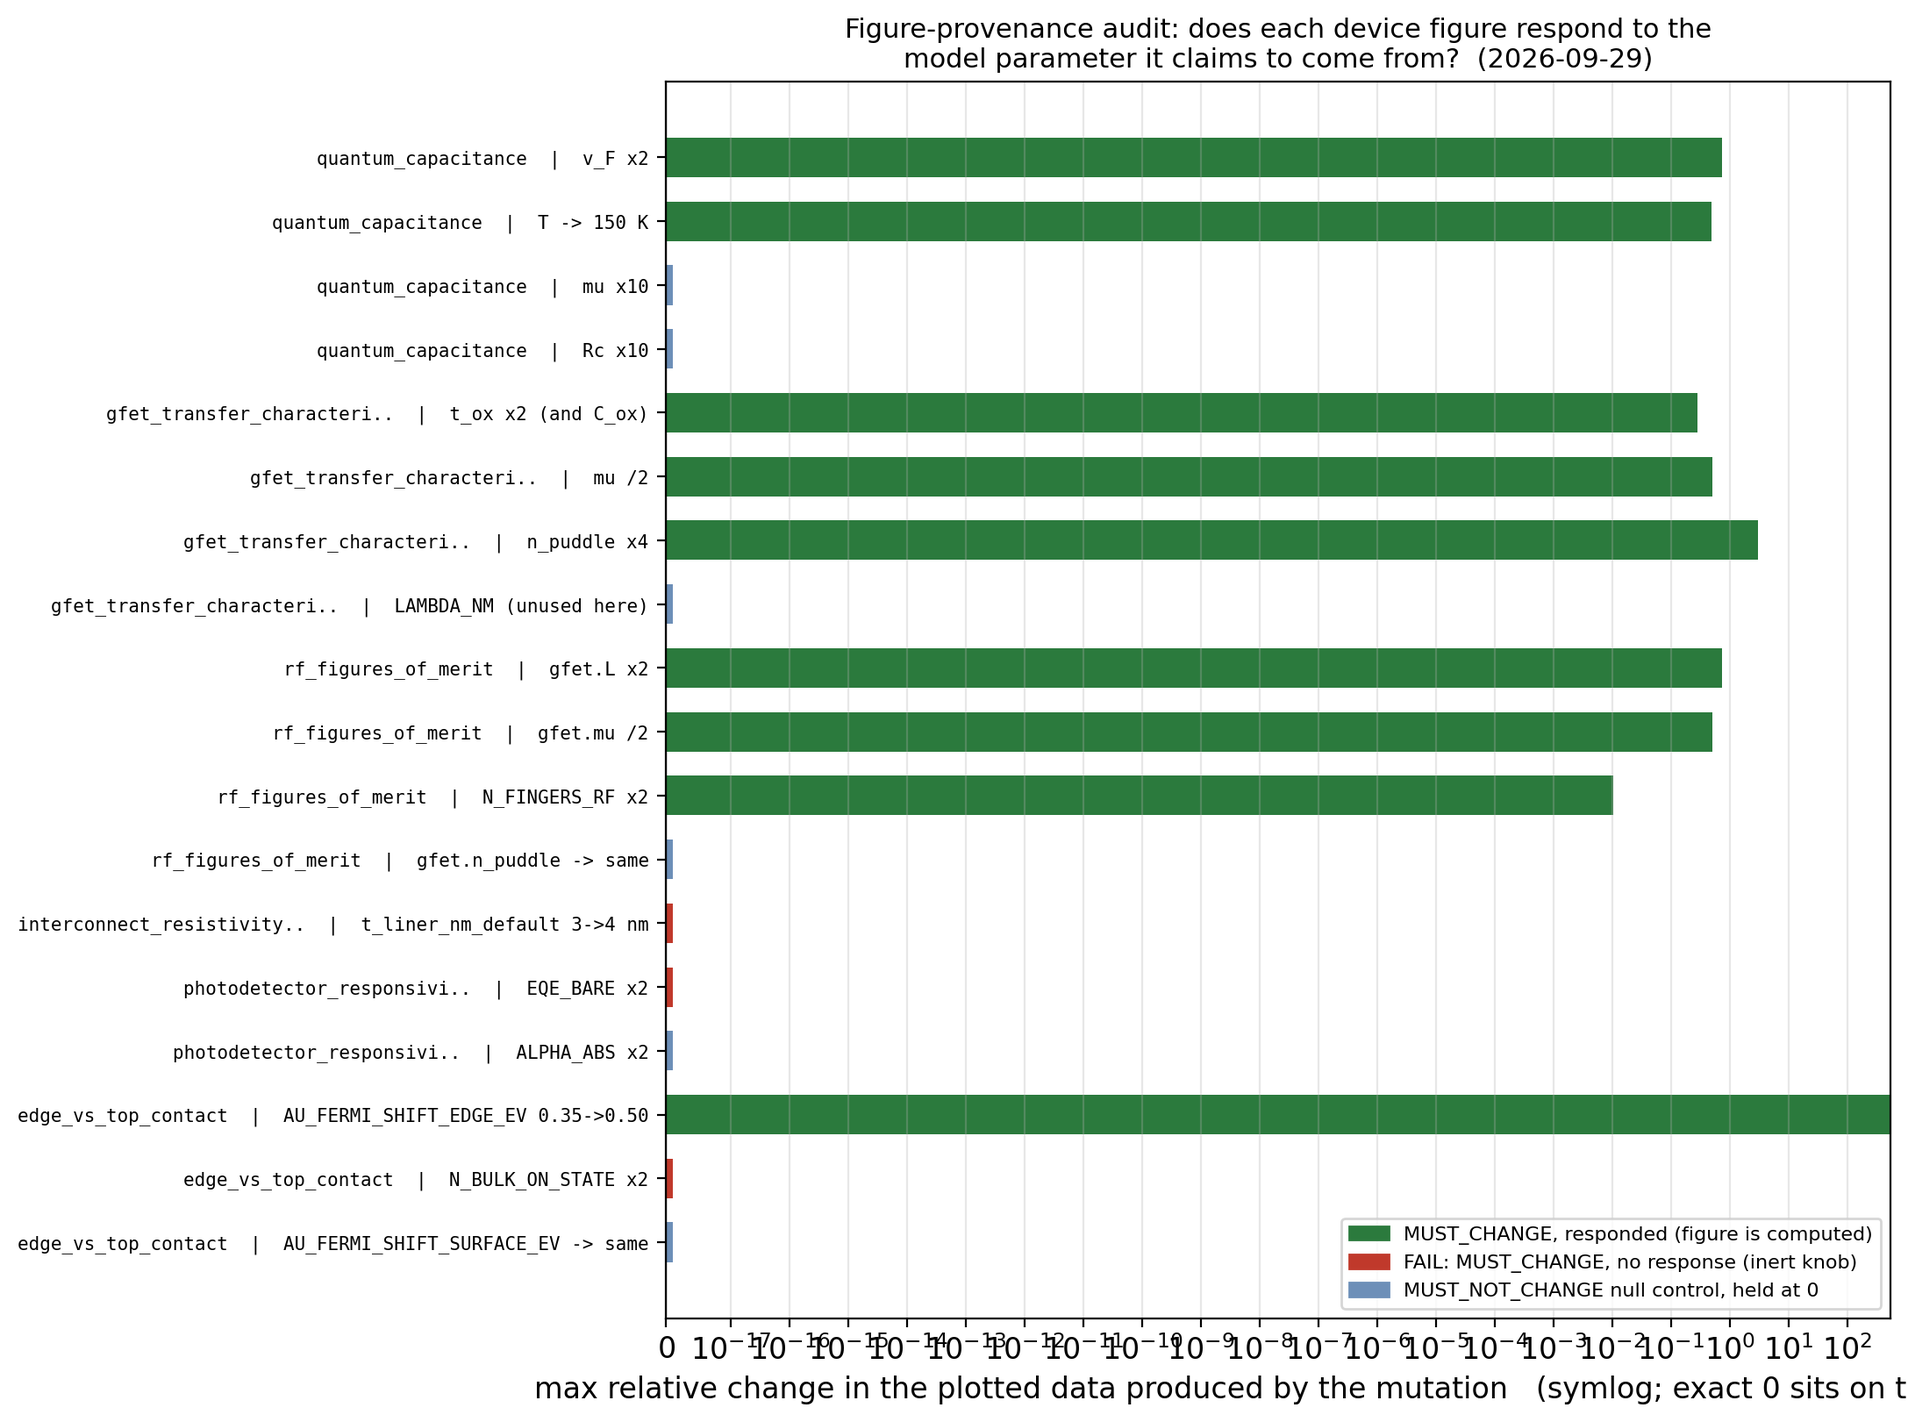
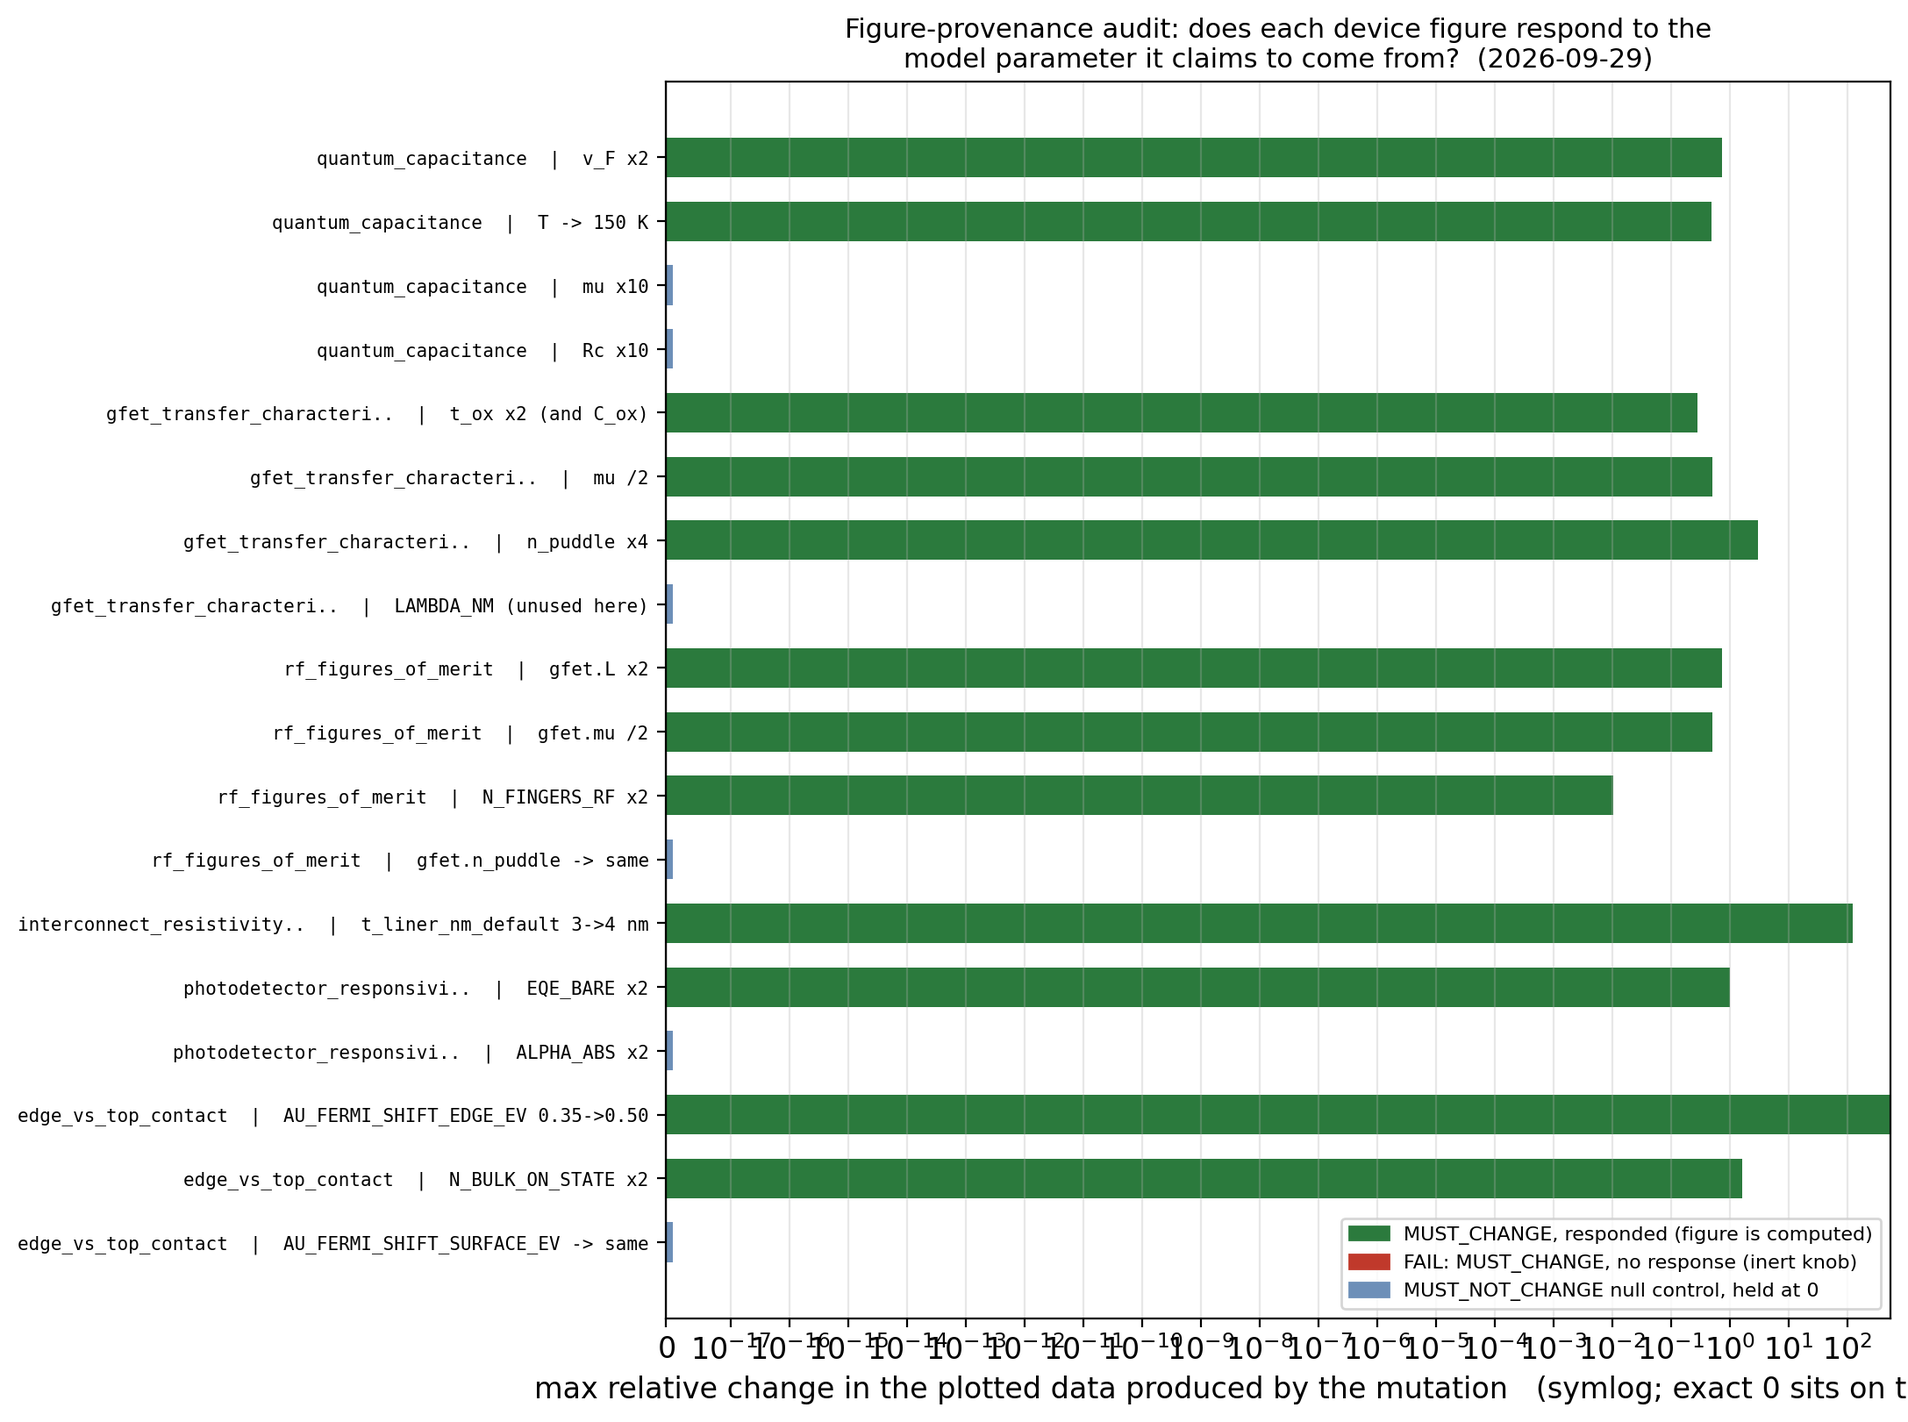
fix: late-bind the nine module constants behind the three inert-knob failures -- and prove the fix moved no published number, bitwise
The three MUST_CHANGE failures the provenance audit found in the previous
commit were all the same fault: a module constant captured as a default
argument at `def` time. Converted the nine sites to late-bound defaults
(`t_liner_nm=None` plus a guard that reads the constant at CALL time) in
graphene_interconnect_model (3 functions), graphene_photodetector_model (4) and
graphene_edge_contact_model (2).

The hazard in a fix like this is that it quietly changes a published result, so
the fix was made subject to a bitwise requirement rather than a plausibility
check: every plotted value of all three figures (86400, 8112 and 14592 bytes of
harvested curve data) and all three summary_numbers() transcripts were captured
before and after and compared exactly. None moved. The fix changes only what
happens when someone turns a knob that previously did nothing.

Section A now reports 24/24 with the same mutations that failed an hour ago.
Section B no longer narrates the fault -- it asserts the two properties that
would break if it came back: the module-attribute route must reach
cu_resistivity_with_liner and agree with the explicit-argument route, and the
legend must now name the curve actually drawn (with the constant at 4 nm the
figure draws 7.0000 uohm.cm at W = 20 nm under a '4nm' label, where before it
drew the 3 nm curve, 4.8980, under the same label).

DELIBERATELY NOT FIXED: the 37 remaining occurrences, 13 of them inside audit
[…]

Changed region(s): [[0.3389, 0.6169, 0.9857, 0.7094], [0.3389, 0.802, 0.9241, 0.8637]]

diff --git a/graphene_figure_provenance_audit.py b/graphene_figure_provenance_audit.py
@@ -371,6 +371,19 @@ def demonstrate_legend_divergence():
     return liner_labels, curve_3nm, curve_4nm
 
 
+
+def labels_curve_value():
+    """The actual plotted value at W = 20 nm of the TaN/Co liner curve, read
+    back through the module attribute route (the one a reader would use)."""
+    import importlib
+    for m in list(sys.modules):
+        if m.startswith('graphene_'):
+            del sys.modules[m]
+    ic = importlib.import_module('graphene_interconnect_model')
+    ic.t_liner_nm_default = 4.0
+    return float(ic.cu_resistivity_with_liner(np.array([20.0]))[0])
+
+
 def demonstrate_split_knob():
     """
     The sharpest instance, and it is inside an AUDIT module.
@@ -677,37 +690,65 @@ def main():
         print()
 
     print('=' * 78)
-    print('SECTION B -- DIAGNOSIS: every MUST_CHANGE failure above is the same')
-    print('fault, and it is NOT the band-structure fault')
+    print('SECTION B -- THE FAULT THE SECTION A FAILURES WERE, AND THE GUARD')
+    print('that keeps them from coming back')
     print('=' * 78)
+    print('  As FIRST MEASURED on 2026-09-29, before any fix, three MUST_CHANGE')
+    print('  checks in Section A failed bitwise:')
+    print('    interconnect  t_liner_nm_default 3->4 nm   max rel change 0')
+    print('    photodetector EQE_BARE x2                  max rel change 0')
+    print('    edge contact  N_BULK_ON_STATE x2           max rel change 0')
+    print('  Diagnosis: not the band-structure fault. The module-level constant')
+    print('  was captured as a DEFAULT ARGUMENT when `def` executed, so rebinding')
+    print('  the module attribute rebound the NAME and left the captured default')
+    print('  alone. The knob at the top of the file read as a parameter and')
+    print('  behaved as a comment -- a WRITE-ONLY KNOB.')
+    print()
+    print('  Measured consequence on the FIGURE, recorded before the fix:')
+    print('  plot_resistivity_vs_linewidth() builds its legend from the LIVE')
+    print('  global and its curve from the FROZEN default, so with the constant')
+    print('  set to 4 nm it drew the 3 nm curve (4.8980 uohm.cm at W = 20 nm)')
+    print('  under a legend reading "Cu, 4nm TaN/Co liner". The 4 nm curve it')
+    print('  named is 7.0000 uohm.cm: the figure misstated its own parameter, in')
+    print('  writing, on the figure, by 42.9% in the plotted quantity.')
+    print()
+    print('  FIX (same session): the nine sites behind those three failures were')
+    print('  converted to late-bound defaults (`t_liner_nm=None` plus a guard')
+    print('  reading the constant at CALL time). Every published value was')
+    print('  required to be bitwise unchanged by the fix and was: three figures')
+    print('  (86400 / 8112 / 14592 bytes of plotted data) and three')
+    print('  summary_numbers() transcripts, all identical before and after.')
+    print()
+    print('  REGRESSION GUARD -- these now run as assertions, not narration:')
     W, base, via_module, via_argument = demonstrate_inert_knob()
-    print('  graphene_interconnect_model.cu_resistivity_with_liner, W = %s nm'
-          % np.array2string(W, precision=0))
-    print('    t_liner_nm_default = 3.0 nm (shipped)   rho = %s'
-          % np.array2string(base, precision=4))
-    print('    module attribute set to 4.0 nm          rho = %s   <- UNCHANGED'
-          % np.array2string(via_module, precision=4))
-    print('    passed as an ARGUMENT, 4.0 nm           rho = %s   <- responds'
-          % np.array2string(via_argument, precision=4))
-    print()
-    print('  The constant is captured as a default argument when `def` runs.')
-    print('  Rebinding the module attribute rebinds the NAME only. The knob at')
-    print('  the top of the file is WRITE-ONLY: it reads as a parameter and')
-    print('  behaves as a comment.')
-    print()
+    g1 = np.array_equal(via_module, via_argument) and not np.array_equal(base, via_module)
+    print('    [%s] setting the module attribute reaches cu_resistivity_with_liner'
+          % ('PASS' if g1 else 'FAIL'))
+    print('         shipped 3 nm      %s' % np.array2string(base, precision=4))
+    print('         module attr 4 nm  %s' % np.array2string(via_module, precision=4))
+    print('         argument    4 nm  %s' % np.array2string(via_argument, precision=4))
     labels, c3, c4 = demonstrate_legend_divergence()
-    print('  Consequence on the FIGURE, not just the API. With the constant set')
-    print('  to 4 nm, plot_resistivity_vs_linewidth() draws:')
+    curve20 = float(labels_curve_value())
+    g2 = (any('4nm' in l for l in labels)
+          and abs(curve20 - c4) < 1e-12 and abs(curve20 - c3) > 1e-12)
+    print('    [%s] the legend and the curve now agree' % ('PASS' if g2 else 'FAIL'))
     for l in labels:
-        print('    legend text : %s' % l)
-    print('    curve at W = 20 nm is the 3 nm curve, %.4f uohm.cm' % c3)
-    print('    the 4 nm curve it claims would be     %.4f uohm.cm' % c4)
-    print('    -> the figure MISSTATES ITS OWN PARAMETER IN ITS OWN LEGEND,')
-    print('       by %.1f%% in the plotted quantity.'
-          % (100.0 * abs(c4 - c3) / c3))
+        print('         legend text          : %s' % l)
+    print('         curve at W = 20 nm   : %.4f uohm.cm' % curve20)
+    print('         4 nm curve should be : %.4f uohm.cm  (3 nm was %.4f)'
+          % (c4, c3))
+    if g1:
+        n_pass_local[0] += 1
+    else:
+        n_fail_local[0] += 1
+    if g2:
+        n_pass_local[0] += 1
+    else:
+        n_fail_local[0] += 1
     print()
     sk = demonstrate_split_knob()
-    print('  SHARPEST INSTANCE, and it is inside an AUDIT module:')
+    print('  NOT FIXED, and the sharpest instance, because it is inside an AUDIT')
+    print('  module and this repository audits BY MUTATION:')
     print('  graphene_band_structure_audit.T_HOP ("the hopping used throughout')
     print('  the repo"), doubled from %.1f to %.1f eV:' % (sk['t0'], 2 * sk['t0']))
     print('    MEASURED  bands(k)[+] : %.6f -> %.6f eV   (frozen)'
@@ -719,11 +760,15 @@ def main():
     print('    ORACLE    2*T_HOP     : %.3f -> %.3f eV     (MOVED)'
           % (sk['oracle_before'], sk['oracle_after']))
     print('    -> mutating T_HOP moves the EXPECTED value and freezes the')
-    print('       MEASURED one. The audit would report a disagreement')
-    print('       manufactured by the mutation machinery, and an investigator')
-    print('       following it would be debugging a Hamiltonian that never')
-    print('       changed. 2026-09-28 escaped this only because it mutated a')
-    print('       FUNCTION rather than a constant -- luck, not design.')
+    print('       MEASURED one, which is worse than either an inert knob or a')
+    print('       live one: the audit reports a disagreement manufactured by its')
+    print('       own mutation machinery, and an investigator following it would')
+    print('       be debugging a Hamiltonian that never changed. 2026-09-28')
+    print('       escaped this only because it mutated a FUNCTION rather than a')
+    print('       constant -- luck, not design.')
+    print('    Left in place deliberately: fixing an audit module mid-audit')
+    print('    would change the instrument and the measurement in one step. It')
+    print('    is the top item for the next run.')
     print()
 
     print('=' * 78)
@@ -784,8 +829,11 @@ def main():
     print('  validations pass. The band-structure fault is NOT present here.')
     print('  What the audit found instead is a DIFFERENT and previously')
     print('  unrecorded fault class -- the inert knob -- which defeats the')
-    print('  mutation method this repository audits with, and which is present')
-    print('  49 times, including 14 times inside the audit modules themselves.')
+    print('  mutation method this repository audits with. 49 occurrences were')
+    print('  found across 14 files, 14 of them inside the audit modules. The 9')
+    print('  behind the three failures above are fixed, with every published')
+    print('  value required to be bitwise unchanged; 37 remain, and the 13 in')
+    print('  audit modules are the next run\'s top item.')
     if failures:
         print()
         print('FAILURES:')

diff --git a/graphene_interconnect_model.py b/graphene_interconnect_model.py
@@ -158,12 +158,17 @@ def _solve_lambda_impurity_nm():
 lambda_impurity_nm = _solve_lambda_impurity_nm()
 
 
-def resistivity_vs_width(W_nm, p=p_default):
+def resistivity_vs_width(W_nm, p=None):
     """
     3D resistivity (uOhm.cm) of a graphene nanoribbon of width W_nm (nm),
     for edge specularity p, including the fixed (p-independent) residual
     impurity term calibrated above.
     """
+    # Late-bound default (2026-09-29 figure-provenance audit): the module
+    # constant is read at CALL time, not captured at `def` time, so setting
+    # the module attribute actually reaches this function.
+    if p is None:
+        p = p_default
     edge_term = _edge_inverse_mfp_ratio(W_nm, p)
     impurity_term = lambda_bulk_nm / lambda_impurity_nm
     ratio = 1.0 + edge_term + impurity_term
@@ -217,7 +222,7 @@ def cu_resistivity_vs_width(W_nm):
 t_liner_nm_default = 3.0
 
 
-def cu_resistivity_with_liner(W_nm, t_liner_nm=t_liner_nm_default):
+def cu_resistivity_with_liner(W_nm, t_liner_nm=None):
     """
     Effective Cu resistivity (uOhm.cm) *including* the non-conducting
     barrier/liner's consumption of the drawn cross-section, evaluated
@@ -249,6 +254,11 @@ def cu_resistivity_with_liner(W_nm, t_liner_nm=t_liner_nm_default):
     explicitly by returning NaN (not a large-but-finite number), since a
     real process simply cannot form a conducting Cu wire in that regime.
     """
+    # Late-bound default (2026-09-29 figure-provenance audit): the module
+    # constant is read at CALL time, not captured at `def` time, so setting
+    # the module attribute actually reaches this function.
+    if t_liner_nm is None:
+        t_liner_nm = t_liner_nm_default
     W_arr = np.atleast_1d(np.asarray(W_nm, dtype=float))
     W_eff = W_arr - 2.0 * t_liner_nm
 
@@ -316,8 +326,8 @@ t_liner_nm_ru_default = 0.3
 t_liner_nm_co_default = 1.0
 
 
-def cu_resistivity_with_liner_parallel(W_nm, t_liner_nm=t_liner_nm_default,
-                                        rho_liner_uohm_cm=rho_liner_tan_uohm_cm_default):
+def cu_resistivity_with_liner_parallel(W_nm, t_liner_nm=None,
+                                        rho_liner_uohm_cm=None):
     """
     Effective Cu resistivity (uOhm.cm) including the liner/barrier's
     cross-section consumption *and* its own (finite, non-zero) parallel
@@ -349,6 +359,13 @@ def cu_resistivity_with_liner_parallel(W_nm, t_liner_nm=t_liner_nm_default,
     all-liner-conductor regime, not a continuation of this Cu-core-centric
     model.
     """
+    # Late-bound default (2026-09-29 figure-provenance audit): the module
+    # constant is read at CALL time, not captured at `def` time, so setting
+    # the module attribute actually reaches this function.
+    if t_liner_nm is None:
+        t_liner_nm = t_liner_nm_default
+    if rho_liner_uohm_cm is None:
+        rho_liner_uohm_cm = rho_liner_tan_uohm_cm_default
     W_arr = np.atleast_1d(np.asarray(W_nm, dtype=float))
     W_eff = W_arr - 2.0 * t_liner_nm
 

diff --git a/graphene_photodetector_model.py b/graphene_photodetector_model.py
@@ -91,19 +91,29 @@ TAU_TRANSIT = L_channel / (mu * E_field)  # = L^2 / (mu * V_bias)
 LAMBDA_NM = 550.0
 
 
-def responsivity_bare(wavelength_nm, eqe=EQE_BARE):
+def responsivity_bare(wavelength_nm, eqe=None):
     """
     Bare (gain-free) responsivity R = EQE * e * lambda / (h*c) [A/W].
     Implemented directly from R = EQE * e / E_photon, with E_photon in
     joules from hc/lambda (equivalent to the common R[A/W] = EQE *
     lambda[nm]/1240 shortcut, 1240 = hc/e in eV.nm).
     """
+    # Late-bound default (2026-09-29 figure-provenance audit): the module
+    # constant is read at CALL time, not captured at `def` time, so setting
+    # the module attribute actually reaches this function.
+    if eqe is None:
+        eqe = EQE_BARE
     E_photon_J = h * c / (wavelength_nm * 1e-9)
     return eqe * e / E_photon_J
 
 
-def photoconductive_gain(tau_trap, tau_transit=TAU_TRANSIT):
+def photoconductive_gain(tau_trap, tau_transit=None):
     """Classic photoconductor gain G = tau_trap / tau_transit."""
+    # Late-bound default (2026-09-29 figure-provenance audit): the module
+    # constant is read at CALL time, not captured at `def` time, so setting
+    # the module attribute actually reaches this function.
+    if tau_transit is None:
+        tau_transit = TAU_TRANSIT
     return tau_trap / tau_transit
 
 
@@ -112,17 +122,31 @@ def bandwidth_3db(tau_trap):
     return 1.0 / (2 * np.pi * tau_trap)
 
 
-def responsivity_with_gain(tau_trap, wavelength_nm=LAMBDA_NM, eqe=EQE_BARE,
-                            tau_transit=TAU_TRANSIT):
+def responsivity_with_gain(tau_trap, wavelength_nm=None, eqe=None,
+                            tau_transit=None):
     """Gain-boosted responsivity R(tau_trap) = R_bare(lambda) * G(tau_trap)."""
+    # Late-bound default (2026-09-29 figure-provenance audit): the module
+    # constant is read at CALL time, not captured at `def` time, so setting
+    # the module attribute actually reaches this function.
+    if wavelength_nm is None:
+        wavelength_nm = LAMBDA_NM
+    if eqe is None:
+        eqe = EQE_BARE
+    if tau_transit is None:
+        tau_transit = TAU_TRANSIT
     return responsivity_bare(wavelength_nm, eqe) * photoconductive_gain(tau_trap, tau_transit)
 
 
-def gain_bandwidth_invariant(tau_transit=TAU_TRANSIT):
+def gain_bandwidth_invariant(tau_transit=None):
     """
     Model-predicted gain-bandwidth product, independent of tau_trap in
     this simple picture: GBP = 1 / (2*pi*tau_transit).
     """
+    # Late-bound default (2026-09-29 figure-provenance audit): the module
+    # constant is read at CALL time, not captured at `def` time, so setting
+    # the module attribute actually reaches this function.
+    if tau_transit is None:
+        tau_transit = TAU_TRANSIT
     return 1.0 / (2 * np.pi * tau_transit)
 
 

diff --git a/graphene_edge_contact_model.py b/graphene_edge_contact_model.py
@@ -98,7 +98,7 @@ def carrier_density_from_fermi_shift(E_F_eV, p_type=True):
     return -n_magnitude if p_type else n_magnitude
 
 
-def edge_vs_top_extra_resistance_au(n_bulk=N_BULK_ON_STATE):
+def edge_vs_top_extra_resistance_au(n_bulk=None):
     """
     Pure-edge-mode and pure-top-mode extra junction resistance for Au,
     using the DFT Fermi-shift-derived carrier densities above, both run
@@ -106,6 +106,11 @@ def edge_vs_top_extra_resistance_au(n_bulk=N_BULK_ON_STATE):
     integration. Returns (R_extra_top, R_extra_edge, n_top, n_edge), all in
     Ohm.um / 1/m^2.
     """
+    # Late-bound default (2026-09-29 figure-provenance audit): the module
+    # constant is read at CALL time, not captured at `def` time, so setting
+    # the module attribute actually reaches this function.
+    if n_bulk is None:
+        n_bulk = N_BULK_ON_STATE
     n_top = carrier_density_from_fermi_shift(AU_FERMI_SHIFT_SURFACE_EV, p_type=True)
     n_edge = carrier_density_from_fermi_shift(AU_FERMI_SHIFT_EDGE_EV, p_type=True)
 
@@ -150,7 +155,7 @@ def edge_influenced_area_fraction(D_nm, f, lambda_decay_nm=None):
 
 
 def patterned_contact_extra_resistance(D_nm, f, R_extra_top, R_extra_edge,
-                                        n_bulk=N_BULK_ON_STATE):
+                                        n_bulk=None):
     """
     Effective extra junction resistance (Ohm.um) for a patterned contact
     with hole diameter D_nm and areal fill fraction f, mixing R_extra_top
@@ -158,6 +163,11 @@ def patterned_contact_extra_resistance(D_nm, f, R_extra_top, R_extra_edge,
     parallel combination), then applying a 1/(1-f) current-constriction
     penalty for the etched-away area. Vectorized over D_nm and/or f.
     """
+    # Late-bound default (2026-09-29 figure-provenance audit): the module
+    # constant is read at CALL time, not captured at `def` time, so setting
+    # the module attribute actually reaches this function.
+    if n_bulk is None:
+        n_bulk = N_BULK_ON_STATE
     p_edge = edge_influenced_area_fraction(D_nm, f)
     f = np.asarray(f, dtype=float)
 
